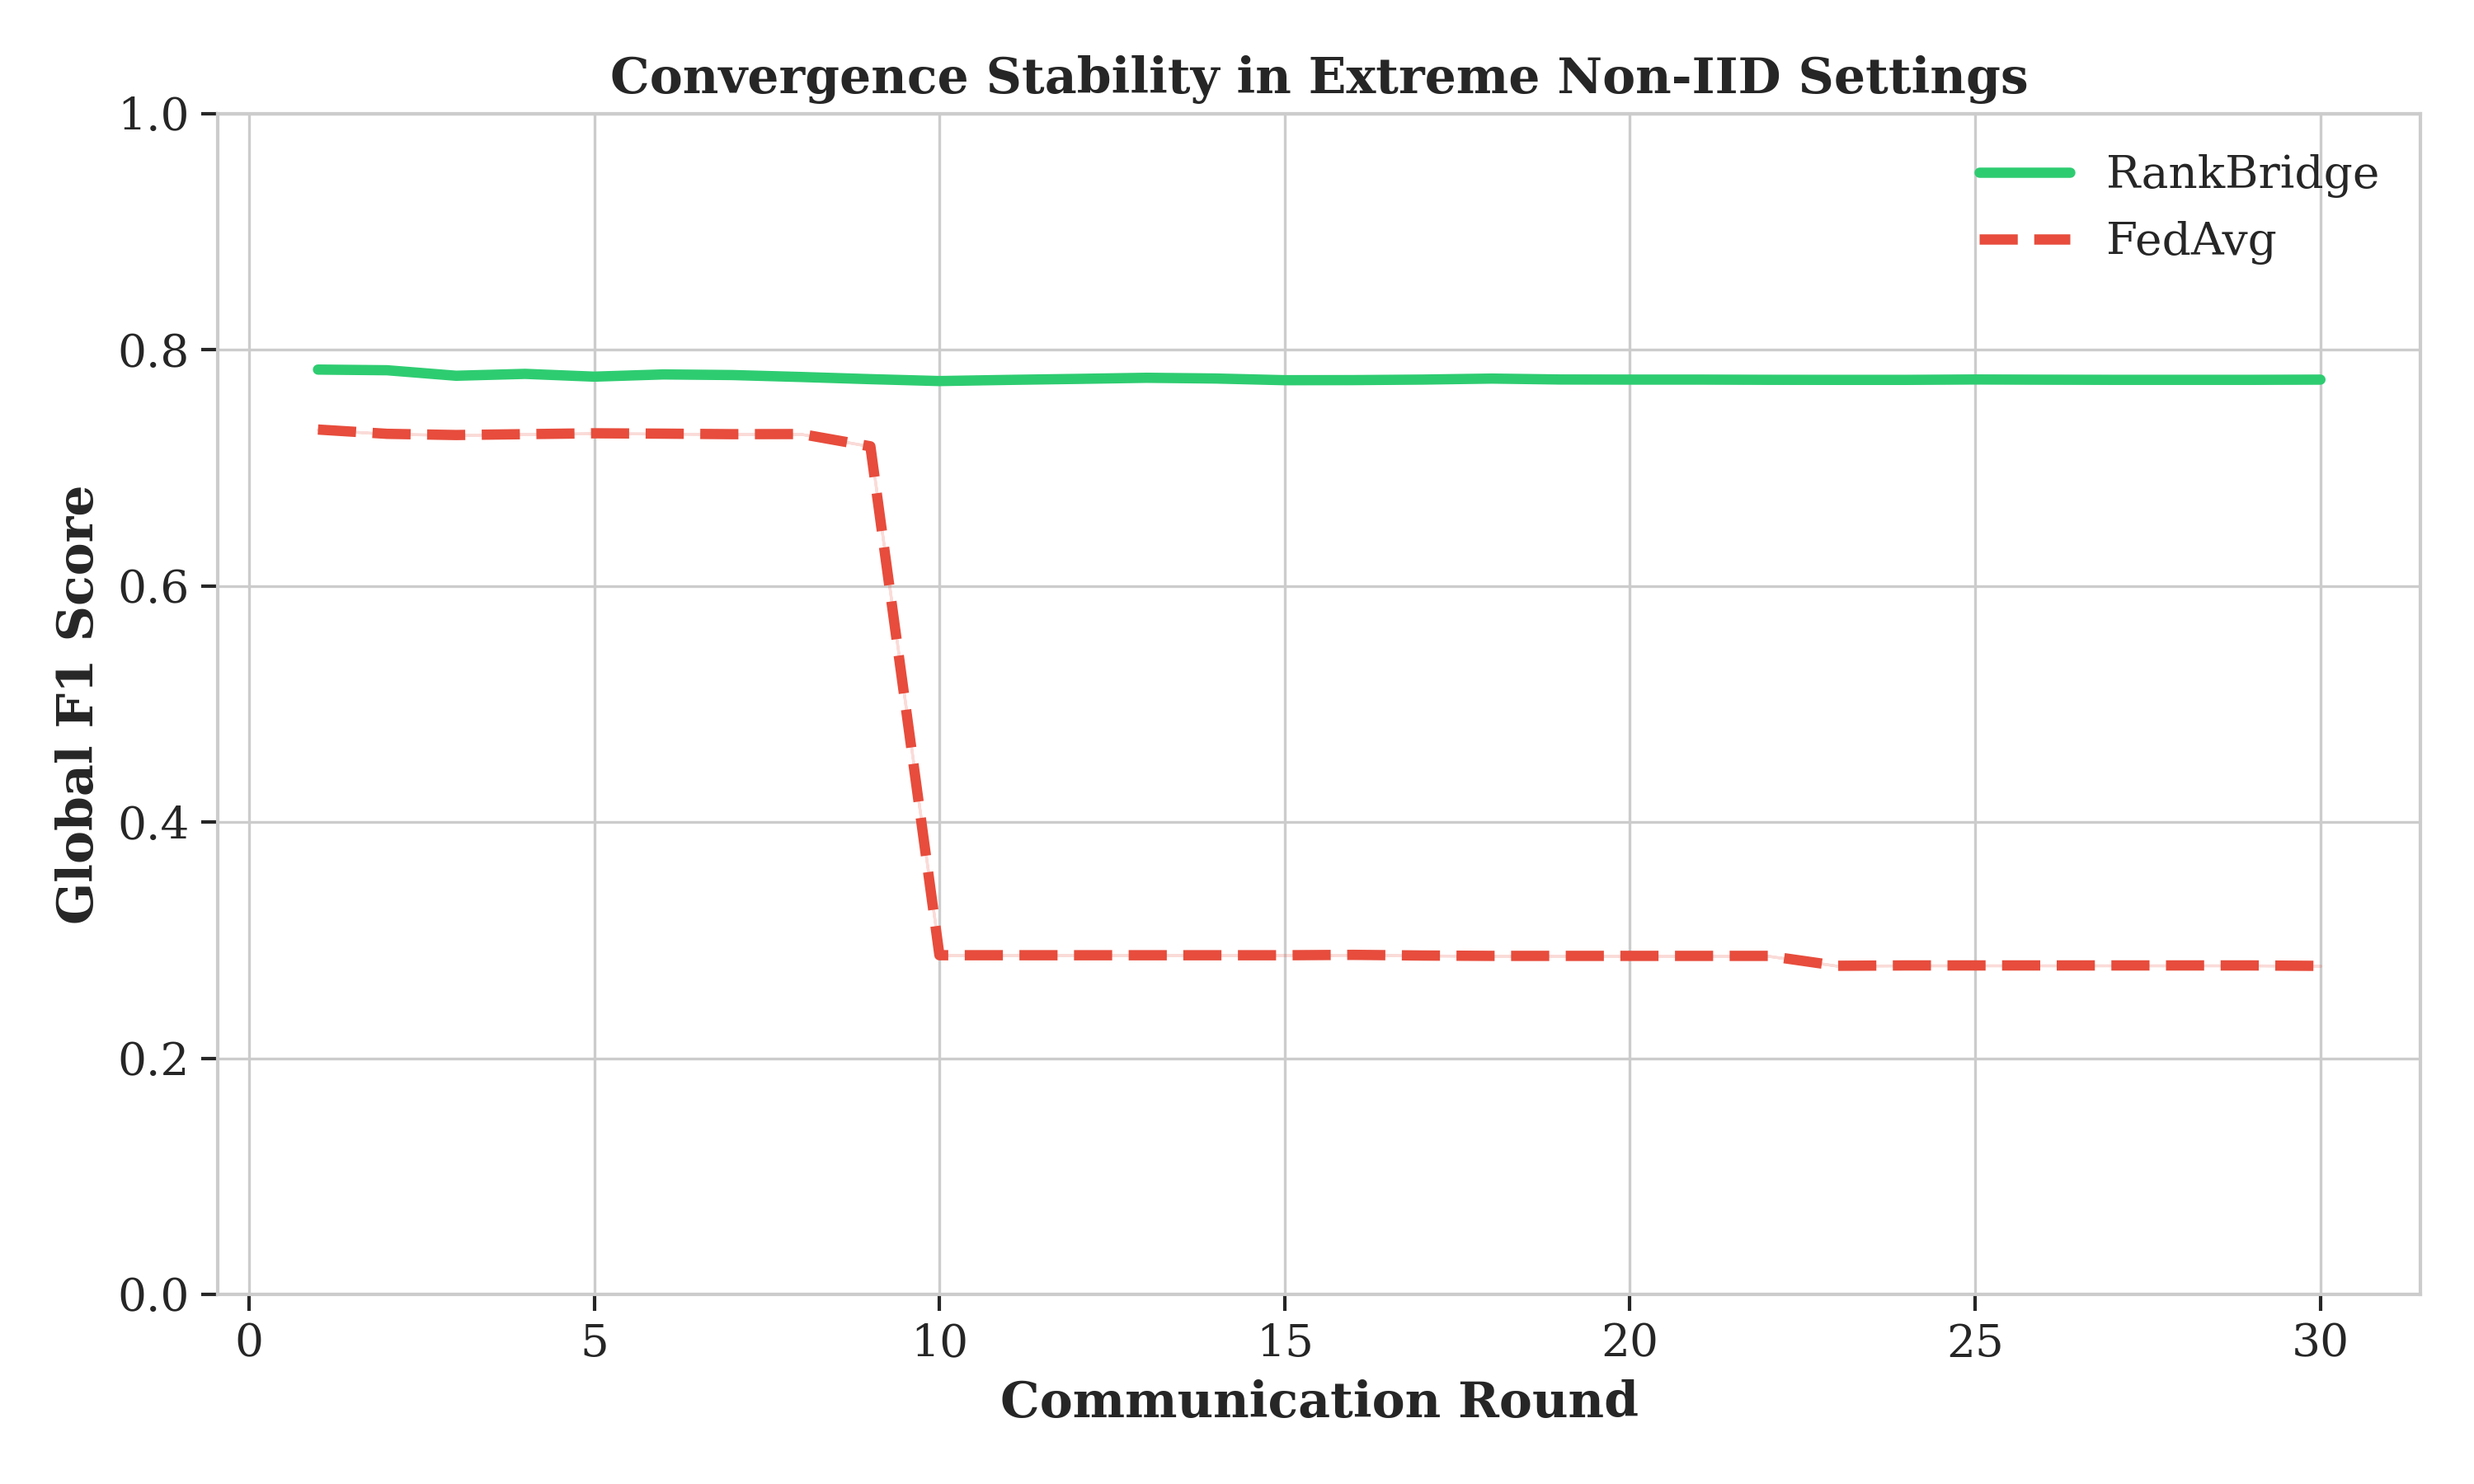
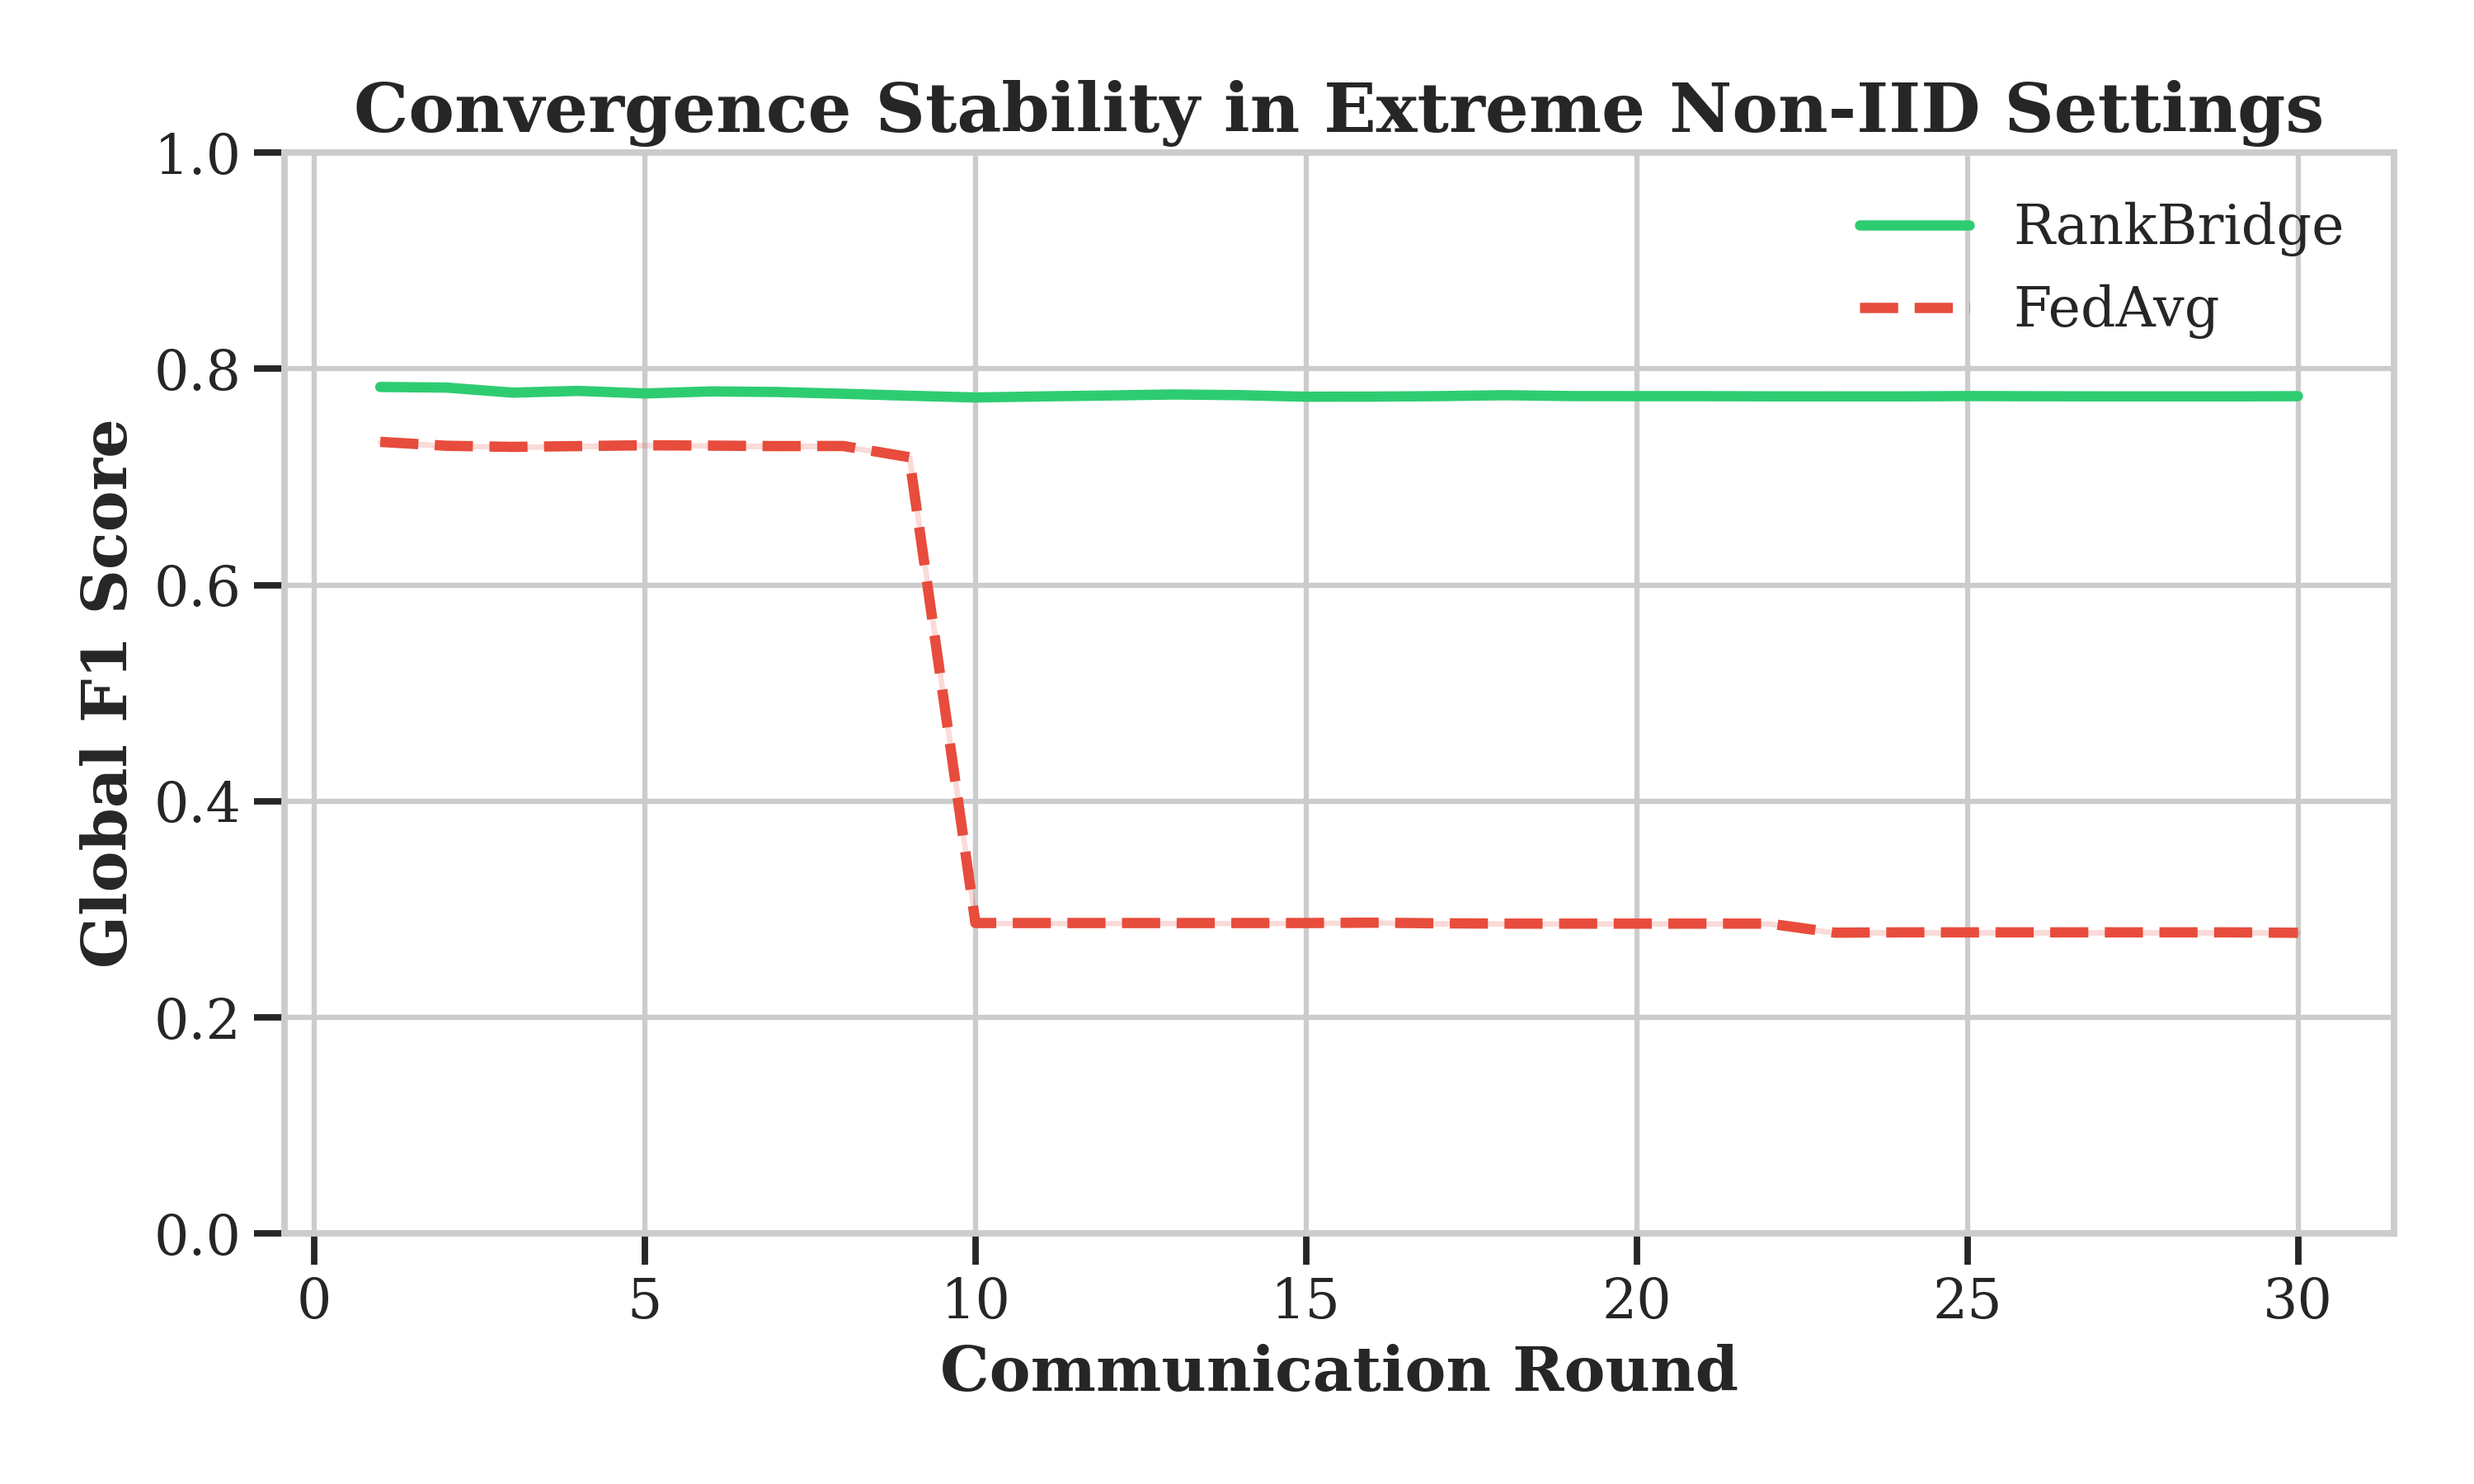
Enhance plot readability for paper (increase font scale to 1.2, switch to talk context)

diff --git a/generate_3d_plots.py b/generate_3d_plots.py
@@ -7,10 +7,16 @@ from mpl_toolkits.mplot3d import Axes3D
 import seaborn as sns
 from pathlib import Path
 
-# Professional academic styling
+# Professional academic styling - optimized for high readability in papers
 plt.style.use('seaborn-v0_8-whitegrid')
-sns.set_context("paper", font_scale=1.5)
+sns.set_context("talk", font_scale=1.2) # 'talk' provides thicker lines and larger base fonts than 'paper'
 plt.rcParams['font.family'] = 'serif'
+plt.rcParams['axes.titlesize'] = 20
+plt.rcParams['axes.labelsize'] = 18
+plt.rcParams['xtick.labelsize'] = 16
+plt.rcParams['ytick.labelsize'] = 16
+plt.rcParams['legend.fontsize'] = 16
+plt.rcParams['figure.titlesize'] = 22
 
 RESULTS_DIR = 'data/plots'
 Path(RESULTS_DIR).mkdir(parents=True, exist_ok=True)

diff --git a/generate_paper_plots.py b/generate_paper_plots.py
@@ -6,10 +6,16 @@ import matplotlib.pyplot as plt
 import seaborn as sns
 from pathlib import Path
 
-# Professional academic styling
+# Professional academic styling - optimized for high readability in papers
 plt.style.use('seaborn-v0_8-whitegrid')
-sns.set_context("paper", font_scale=1.5)
+sns.set_context("talk", font_scale=1.2) # 'talk' provides thicker lines and larger base fonts than 'paper'
 plt.rcParams['font.family'] = 'serif'
+plt.rcParams['axes.titlesize'] = 20
+plt.rcParams['axes.labelsize'] = 18
+plt.rcParams['xtick.labelsize'] = 16
+plt.rcParams['ytick.labelsize'] = 16
+plt.rcParams['legend.fontsize'] = 16
+plt.rcParams['figure.titlesize'] = 22
 
 RESULTS_DIR = 'data/plots'
 Path(RESULTS_DIR).mkdir(parents=True, exist_ok=True)

diff --git a/generate_extra_plots.py b/generate_extra_plots.py
@@ -7,10 +7,16 @@ import seaborn as sns
 from pathlib import Path
 from math import pi
 
-# Professional academic styling
+# Professional academic styling - optimized for high readability in papers
 plt.style.use('seaborn-v0_8-whitegrid')
-sns.set_context("paper", font_scale=1.5)
+sns.set_context("talk", font_scale=1.2) # 'talk' provides thicker lines and larger base fonts than 'paper'
 plt.rcParams['font.family'] = 'serif'
+plt.rcParams['axes.titlesize'] = 20
+plt.rcParams['axes.labelsize'] = 18
+plt.rcParams['xtick.labelsize'] = 16
+plt.rcParams['ytick.labelsize'] = 16
+plt.rcParams['legend.fontsize'] = 16
+plt.rcParams['figure.titlesize'] = 22
 
 RESULTS_DIR = 'data/plots'
 Path(RESULTS_DIR).mkdir(parents=True, exist_ok=True)
